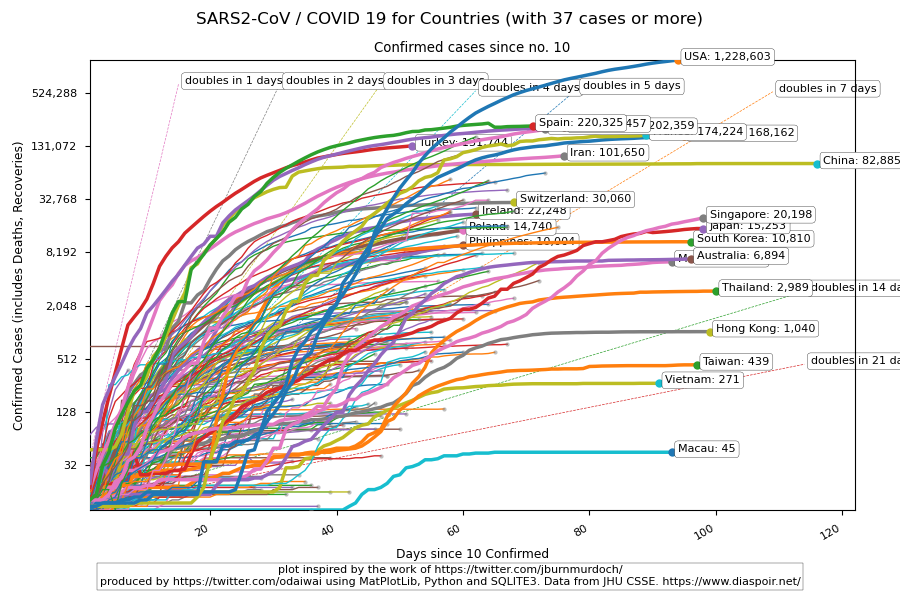
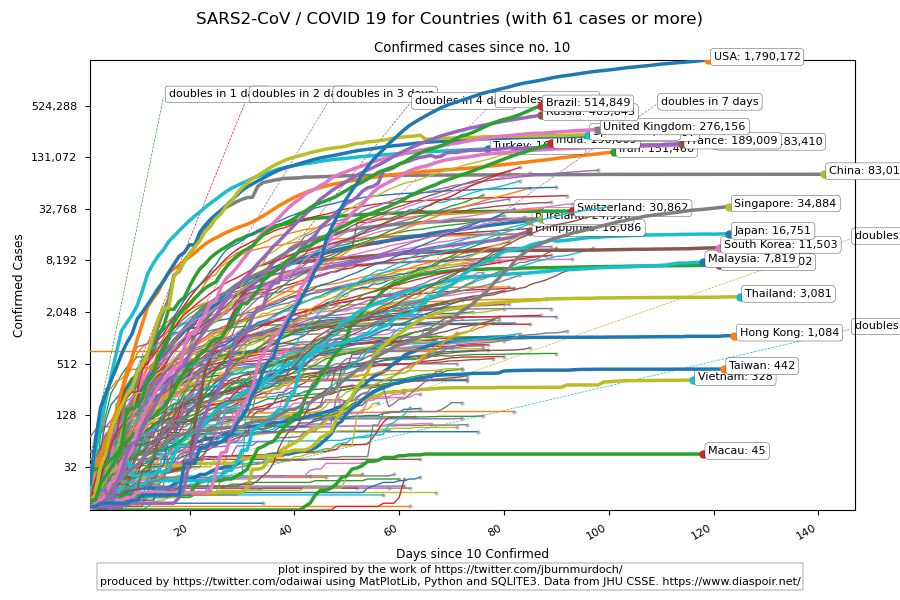
other changes to date on plotting

diff --git a/produce_ncor_plots.py b/produce_ncor_plots.py
@@ -102,14 +102,52 @@ def keys_values_as_lists_from_dict(dict):
 def graph_definitions():
     graphs = []
     # Contains a list of the parameters for each graph
+    # in order, these are: [graph_name, limit, description, scale, base, lag, doubling]:
+    # Should add a Title, a Per Capita BOOL
     graphs.append(['Confirmed', 10, 'Confirmed Cases (includes Deaths, Recoveries)', 'log', 2, 0, 1])
     graphs.append(['Confirmed', 10, 'Confirmed New Cases (includes Deaths, Recoveries)', 'linear', 10, 7, 0])
     graphs.append(['Recovered', 10, 'Recoveries', 'log', 2, 0, 1])
     graphs.append(['Recovered', 10, 'New Recoveries', 'linear', 10, 7, 0])
     graphs.append(['Deaths', 1, 'Deaths', 'log', 2, 0, 1])
     graphs.append(['Deaths', 1, 'New Deaths', 'linear', 10, 7, 0])
+    #graphs = {'Confirmed': 'limit', 'description'
     
     return graphs
+
+    
+def graph_definitions_as_dict():
+    graphs = []
+    graph_uuid = 0
+    for column in 'Confirmed Recovered Deaths'.split():
+        if column == 'Deaths':
+            limit = 1
+        else:
+            limit = 10
+
+        for lag in [0, 7]:
+            graph = {}
+            graph['uuid'] = graph_uuid
+            graph['column'] = column
+            graph['limit'] = limit
+            graph['lag'] = lag
+            if lag == 0:
+                graph['description'] = ' '.join([column, 'Cases'])
+                graph['scale'] = 'log'
+                graph['base'] = 2
+                graph['doubling'] = True
+            else:
+                graph['description'] = ' '.join([column, 'New Cases'])
+                graph['scale'] = 'linear'
+                graph['base'] = 10
+                graph['doubling'] = False
+        
+            graph_uuid += 1
+            print(graph)
+
+            graphs.append(graph)
+    print()
+    return graphs
+
 def make_days_since_start_plot():
     #Make the rate of increase since N cases plot
     # with all the countries
@@ -125,42 +163,49 @@ def make_days_since_start_plot():
     start_date_str = value_from_query(dbc, 'SELECT Date from [jhu_data] order by Date ASC limit 1')
     final_date_str = value_from_query(dbc, 'SELECT Date from [jhu_data] order by Date DESC limit 1')
     start_date = datetime.datetime.strptime(start_date_str + ' 00:00', '%Y-%m-%d %H:%M')
-    final_date = datetime.datetime.strptime(final_date_str + ' 17:00', '%Y-%m-%d %H:%M')
+    final_date = datetime.datetime.strptime(final_date_str + ' 17:00', '%Y-%m-%d %H:%M') + datetime.timedelta(days = 7)
     max_days = (final_date - start_date).days
-    axis_range = [1, max_days+7] # x-axis
+    axis_range = [1, max_days] # x-axis
     countries = list_of_countries_by_confirmed(final_date_str)
     countries.remove('World')
-    countries_of_interest = ['Hong Kong', 'Singapore', 'China', 'Italy', 'South Korea', 'USA', 'Germany', 'United Kingdom', 'Ireland', 'France', 'Poland', 'Japan', 'Spain', 'Taiwan', 'Vietnam', 'Thailand', 'Australia', 'Malaysia', 'Macau', 'World', 'Philippines', 'Turkey', 'Iran', 'Switzerland']
+    countries_of_interest = ['Hong Kong', 'Singapore', 'China', 'Italy', 
+            'South Korea', 'USA', 'Germany', 'United Kingdom', 'Ireland', 'France', 
+            'Poland', 'Japan', 'Spain', 'Taiwan', 'Vietnam', 'Thailand', 'Australia', 
+            'Malaysia', 'Macau', 'World', 'Philippines', 'Turkey', 'Iran', 
+            'Switzerland', 'Brazil', 'Russia', 'India']
     
     # Setup the parameters for each graph
     FACTOR = 0.00001
-    graphs = graph_definitions()
+    graphs = graph_definitions_as_dict()
+
+    ANNOTATE_ALL = False
     
-    for graph, limit, description, scale, base, lag, doubling in graphs:
+    for graph in graphs:
+        #for graph, limit, description, scale, base, lag, doubling in graphs:
         fig = plt.figure(figsize=FIGSIZE)
         ax = plt.axes([0.1, 0.15, 0.85, 0.75])
         fig.suptitle('SARS2-CoV / COVID 19 for Countries (with {} cases or more)'.format(int(max_cases * FACTOR)))
-        if lag > 0:
-            ax.set(title = '{} new cases per day (over {} days) since no. {}'.format(graph, lag, limit))
+        if graph['lag'] > 0:
+            ax.set(title = '{} new cases per day (over {} days) since no. {}'.format(graph['column'], graph['lag'], graph['limit']))
         else:
-            ax.set(title = '{} cases since no. {}'.format(graph, limit))
-        ax.set(xlabel='Days since {} {}'.format(limit, graph), xlim = axis_range, ylabel=description)
+            ax.set(title = '{} cases since no. {}'.format(graph['column'], graph['limit']))
+        ax.set(xlabel='Days since {} {}'.format(graph['limit'], graph['column']), xlim = axis_range, ylabel=graph['description'])
         fig.autofmt_xdate()
         # configure the Y-Axis
-        ax.set_yscale(scale, basey = base)
+        ax.set_yscale(graph['scale'], basey = graph['base'])
         ax.yaxis.set_major_formatter(mpl.ticker.StrMethodFormatter('{x:,.0f}'))
-        #ax.set(ylim = (limit, max_cases))
+        #ax.set(ylim = (graph['limit'], max_cases))
         max_cases = 0
         for country in countries:
             zord = 500 - countries.index(country)
-            
-            if lag > 0:
+            if graph['lag'] > 0:
                 cmd = ('SELECT ROW_NUMBER() OVER (PARTITION BY {G} >= {L} order by date) as days, '
                        'cast({G} - LAG ({G}, {D}, 0) OVER (order by date) as REAL)/{D} as {G} '
-                       'from [{C}] where {G} >= {L} order by Date'.format(C = country, G=graph, L = limit, D=lag))
+                       'from [{C}] where {G} >= {L} order by Date'.format(C = country, G=graph['column'], L = graph['limit'], D=graph['lag']))
             else:
                 cmd = ('SELECT ROW_NUMBER() OVER (PARTITION BY {G} >= {L} order by date) as days, '
-                       '{G} from [{C}] where {G} >= {L} order by Date'.format(C = country, G=graph, L = limit))
+                       '{G} from [{C}] where {G} >= {L} order by Date'.format(C = country, G=graph['column'], L = graph['limit']))
+ 
             results = dict_from_query(dbc, cmd)
             days, cases = keys_values_as_lists_from_dict(results)
             
@@ -169,7 +214,7 @@ def make_days_since_start_plot():
                 # Keep track of the largest number
                 if max(cases) > max_cases:
                     max_cases = max(cases)
-                if country in countries_of_interest:
+                if country in countries_of_interest or ANNOTATE_ALL:
                     ax.plot(days, cases, lw = 2.5, zorder = zord)
                     ax.plot([days[-1]], [cases[-1]], marker='o', markersize=6, zorder = zord)
                     # Add a label
@@ -179,13 +224,13 @@ def make_days_since_start_plot():
                     ax.plot(days, cases, lw = 1, zorder = zord)
                     ax.plot([days[-1]], [cases[-1]], marker='o', markersize=3, color = '#80808080', zorder = zord)
 
-        if doubling:
+        if graph['doubling']:
             # add dashed lines for 'doubles every (1..7) days
             axis_limit = 2 ** int(math.log2(max_cases)-1)
             for ddays in [1,2,3,4,5,7,14,21]:
                 rate = ((2/1) ** (1/ddays))-1
                 days = [0]
-                double = [limit]
+                double = [graph['limit']]
                 for day in range(0, max_days):
                     days.append(day)
                     double.append(double[-1] * (1 + rate))
@@ -194,14 +239,14 @@ def make_days_since_start_plot():
                 ax.plot(days, double, linestyle = 'dashed', linewidth = 0.5, zorder = 2)
                 ax.annotate('doubles in {} days'.format(ddays), (days[-1]+1, double[-1]), fontsize = 8, ha='left', bbox = box, zorder = 2)
         
-        ax.set(ylim = (limit, max_cases))
+        ax.set(ylim = (graph['limit'], max_cases))
         # Attribution on the canvas
         fig.text(0.5, 0.025, attrib_str, ha = 'center', fontsize = 8, bbox = attrib_box, transform=plt.gcf().transFigure)
         # save it out
-        if lag > 0:
-            fig.savefig('plots/{G}_new_since_start.png'.format(G=graph), format = 'png')
+        if graph['lag'] > 0:
+            fig.savefig('plots/{G}_new_since_start.png'.format(G=graph['column']), format = 'png')
         else:
-            fig.savefig('plots/{G}_since_start.png'.format(G=graph), format = 'png')
+            fig.savefig('plots/{G}_since_start.png'.format(G=graph['column']), format = 'png')
         plt.close()
         
     return None
@@ -219,34 +264,56 @@ def make_world_gridplots_from_jhu():
     countries = list_of_countries_by_confirmed(final_date_str)
     plt.style.use('seaborn-paper')
 
-    graphs = graph_definitions()
-    num_graphs = 5 # Number of graphs in a row
+    graphs = graph_definitions_as_dict()
+    num_graphx = 9 # Number of graphs in a row
+    num_graphy = 6 # Number of graphs in a row
+    FIGSIZE = [num_graphx * 1.5, num_graphy * 1.5]
+    DAYS = True
         
-    for graph, limit, description, scale, base, lag, doubling in graphs:
-        fig, axes  = plt.subplots(num_graphs, num_graphs, figsize=FIGSIZE)
-        fig.suptitle('SARS-CoV2 /COVID-19 for Major Reporting Countries (with {} cases or more)'.format(int(max_cases * FACTOR)))
-        for row in range(0, num_graphs):
-            for col in range(0, num_graphs):
-                country = countries[row*num_graphs + col]
-                if lag > 0:
-                    cmd = ('SELECT ROW_NUMBER() OVER (PARTITION BY {G} >= {L} order by date) as days, '
-                           'cast({G} - LAG ({G}, {D}, 0) OVER (order by date) as REAL)/{D} as {G} '
-                         'from [{C}] where {G} >= {L} order by Date'.format(C = country, G=graph, L = limit, D=lag))
+    for graph in graphs:
+        fig, axes  = plt.subplots(num_graphx, num_graphy, figsize=FIGSIZE)
+        fig.suptitle('SARS-CoV2 /COVID-19 in order of total confirmed cases')
+        for row in range(0, num_graphx):
+            for col in range(0, num_graphy):
+                country = countries[row*num_graphx + col]
+                if DAYS:
+                    cmd = 'SELECT ROW_NUMBER() OVER (PARTITION BY {G} >= {L} order by date) as days, '.format(G = graph['column'], L = graph['limit'])
                 else:
-                    cmd = ('SELECT ROW_NUMBER() OVER (PARTITION BY {G} >= {L} order by date) as days, '
-                           '{G} from [{C}] where {G} >= {L} order by Date'.format(C = country, G=graph, L = limit))
+                    cmd = 'SELECT date as days, '
+                if graph['lag'] > 0:
+                    cmd += ('cast({G} - LAG ({G}, {D}, 0) OVER (order by date) as REAL)/{D} as {G} '
+                            'from [{C}] where {G} >= {L} order by Date'.format(C = country, G=graph['column'], L = graph['limit'], D=graph['lag']))
+                else:
+                    cmd += ('{G} from [{C}] where {G} >= {L} order by Date'.format(C = country, G=graph['column'], L = graph['limit']))
+                #print(cmd)
                 results = dict_from_query(dbc, cmd)
                 days, cases = keys_values_as_lists_from_dict(results)
             
-                # Add a marker and optionly an annotation for the last point
-                axes[row, col].plot(days, cases)
-                axes[row, col].set_title('{}'.format(country))
+                # Determine the colour
+                max_cases = max(cases)
+                colour = 'tab:red'
+                if cases[-1] <= 0.75 * max_cases:
+                    colour = 'tab:orange'
+                if cases[-1] <= 0.50 * max_cases:
+                    colour = 'tab:cyan'
+                if cases[-1] <= 0.25 * max_cases:
+                    colour = 'tab:green'
+
+                # Add the plot to the canvas
+                axes[row, col].plot(days, cases, colour, label = '{}'.format(country))
+                axes[row, col].legend(loc = 'upper left')
+                #axes[row, col].set_title('{}'.format(country))
+
+        # iterate through the axes nump array
+        for ax in axes.flat:
+            ax.set(xlabel = 'days', ylabel = 'cases')
+            ax.label_outer()
 
 
-        if lag > 0:
-            fig.savefig('plots/{G}_new_grid_since_start.png'.format(G=graph), format = 'png')
+        if graph['lag'] > 0:
+            fig.savefig('plots/{G}_new_grid_since_start.png'.format(G=graph['column']), format = 'png')
         else:
-            fig.savefig('plots/{G}_grid_since_start.png'.format(G=graph), format = 'png')
+            fig.savefig('plots/{G}_grid_since_start.png'.format(G=graph['column']), format = 'png')
         plt.close()
     
     return None
@@ -345,9 +412,9 @@ def make_days_since_start_plot_by_country():
     start_date_str = value_from_query(dbc, 'SELECT Date from [jhu_data] order by Date ASC limit 1')
     final_date_str = value_from_query(dbc, 'SELECT Date from [jhu_data] order by Date DESC limit 1')
     start_date = datetime.datetime.strptime(start_date_str, '%Y-%m-%d')
-    final_date = datetime.datetime.strptime(final_date_str, '%Y-%m-%d') 
+    final_date = datetime.datetime.strptime(final_date_str, '%Y-%m-%d') + datetime.timedelta(days = 7)
     max_days = (final_date - start_date).days
-    axis_range = [1, max_days+7]
+    axis_range = [1, max_days]
     #axis_range = [start_date, final_date]
     countries = list_of_countries_by_confirmed(final_date_str)
     countries_of_interest = ['Hong Kong', 'Singapore', 'China', 'Italy', 'South Korea', 'USA', 'Germany', 'United Kingdom', 'Ireland', 'France', 'Poland', 'Japan', 'Spain', 'Taiwan', 'Vietnam', 'Thailand', 'Australia', 'Malaysia', 'Macau', 'World', 'Philippines', 'Turkey', 'Iran', 'Switzerland']
@@ -356,7 +423,7 @@ def make_days_since_start_plot_by_country():
     FACTOR = 0.00001
     #
 
-    graphs = graph_definitions()
+    graphs = graph_definitions_as_dict()
     colours = {'Confirmed': 'orange', 'Deaths': 'black', 'Recovered': 'green'}
     
     for country in countries:
@@ -372,16 +439,16 @@ def make_days_since_start_plot_by_country():
         #max_cases = 0
         zord = 10 #
         print (country)
-        for graph, limit, description, scale, base, lag, doubling in graphs:
-            col = colours[graph]
+        for graph in graphs:
+            col = colours[graph['column']]
             # we want to have dates in here...
-            if lag > 0:
+            if graph['lag'] > 0:
                 cmd = ('SELECT Date, ROW_NUMBER() OVER (PARTITION BY Confirmed >= 10 order by date) as days, '
                        'cast({G} - LAG ({G}, {D}, 0) OVER (order by date) as REAL)/{D} as {G} '
-                       'from [{C}] where Confirmed >= 10 order by Date'.format(C = country, G=graph, L = limit, D=lag))
+                       'from [{C}] where Confirmed >= 10 order by Date'.format(C = country, G=graph['column'], L = graph['limit'], D=graph['lag']))
             else:
                 cmd = ('SELECT Date, ROW_NUMBER() OVER (PARTITION BY Confirmed >= 10 order by date) as days, '
-                       '{G} from [{C}] where Confirmed >= 10 order by Date'.format(C = country, G=graph, L = limit))
+                       '{G} from [{C}] where Confirmed >= 10 order by Date'.format(C = country, G=graph['column'], L = graph['limit']))
             results = rows_from_query(dbc, cmd) # 3 x n
             
             if len(results) > 0:
@@ -396,37 +463,38 @@ def make_days_since_start_plot_by_country():
                 #print (graph, results)
                 #print (graph, '\n\t', dates, '\n\t', days, '\n\t', cases)
                 # Add a marker and optionly an annotation for the last point
-                label = '{} cases since no. {} ({})'.format(graph, limit, dates[0])
+                label = '{} cases since no. {} ({})'.format(graph['column'], graph['limit'], dates[0])
                 style = 'solid'
-                if lag > 0:
-                    label = '{} new cases per day (over {} day) since no. {} ({})'.format(graph, lag, limit, dates[0])
+                if graph['lag'] > 0:
+                    label = '{} new cases per day (over {} day) since no. {} ({})'.format(graph['column'], graph['lag'], graph['limit'], dates[0])
                     style = 'dashed'
                         
                 final_note = '{:,.0f}'.format(cases[-1])
-                if lag > 0:
+                if graph['lag'] > 0:
                     final_note = '{:,.0f} per day'.format(cases[-1])
                 max_cases = max(max_cases, cases[-1])
-                ax.plot(days[lag:], cases[lag:], lw = 2.5, zorder = zord, color = col, 
+                ax.plot(days[graph['lag']:], cases[graph['lag']:], lw = 2.5, zorder = zord, color = col, 
                         linestyle = style, label = label)
                 ax.plot([days[-1]], [cases[-1]], marker='o', markersize=6, zorder = zord)
                 # Add a label
                 ax.annotate(final_note, (days[-1], cases[-1]), 
                             fontsize = 8, ha='left', bbox = box, zorder = zord)
         
-        # add dashed lines for 'doubles every (1..7) days
-        ax.set(ylim = (1, max_cases))
-        axis_limit = 2 ** int(math.log2(max_cases)-1)
-        for ddays in [1,2,3,4,5,7,14]:
-            rate = ((2/1) ** (1/ddays))-1
-            days = [0]
-            double = [1]
-            for day in range(0, max_days):
-                days.append(day)
-                double.append(double[-1] * (1 + rate))
-                if double[-1] >= axis_limit:
-                    break
-            ax.plot(days, double, linestyle = 'dashed', linewidth = 0.5, zorder = 2)
-            ax.annotate('doubles in {} days'.format(ddays), (days[-1]+1, double[-1]), fontsize = 8, ha='left', bbox = box, zorder = 2)
+        if graph['doubling']:
+            # add dashed lines for 'doubles every (1..7) days
+            ax.set(ylim = (1, max_cases))
+            axis_limit = 2 ** int(math.log2(max_cases)-1)
+            for ddays in [1,2,3,4,5,7,14]:
+                rate = ((2/1) ** (1/ddays))-1
+                days = [0]
+                double = [1]
+                for day in range(0, max_days):
+                    days.append(day)
+                    double.append(double[-1] * (1 + rate))
+                    if double[-1] >= axis_limit:
+                        break
+                ax.plot(days, double, linestyle = 'dashed', linewidth = 0.5, zorder = 2)
+                ax.annotate('doubles in {} days'.format(ddays), (days[-1]+1, double[-1]), fontsize = 8, ha='left', bbox = box, zorder = 2)
         
         # Attribution on the canvas
         ax.legend()
